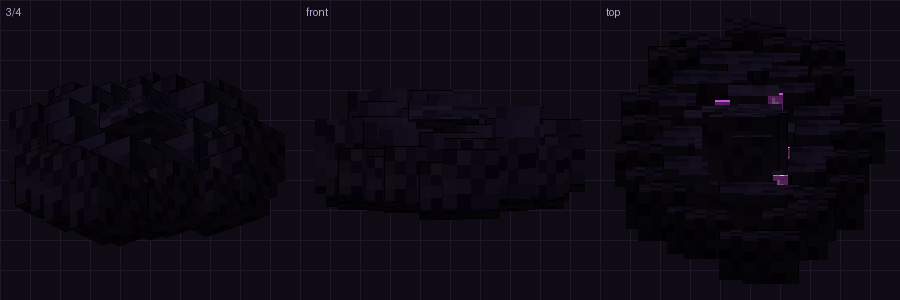
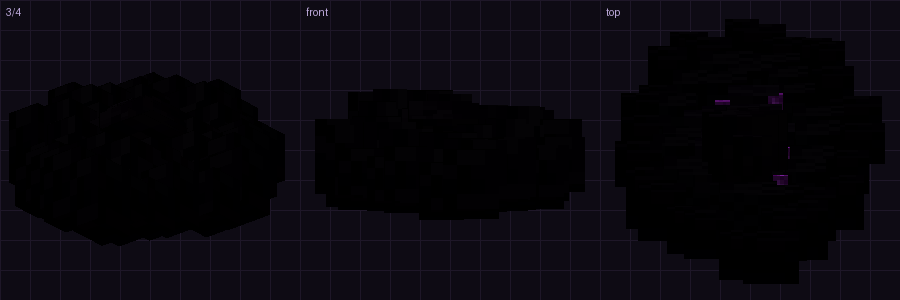
fix(dark-fog): deepen mist while preserving caster sight

diff --git a/src/main/java/com/tnc/tnc/magic/DarkFogCloudEntity.java b/src/main/java/com/tnc/tnc/magic/DarkFogCloudEntity.java
@@ -76,19 +76,19 @@ public class DarkFogCloudEntity extends SpellCloud {
      *
      * <p>为什么要它：法术 JSON 的 `release.target.cloud.client_data.particles` 由**引擎**
      * 每 tick 播放 ✓；但那条路是引擎自己读 JSON 的，我们插不进手 ✗。
-     * 这里补的是"雾在哪、有多浓"最直观的那几颗（贴地墨点 ＋ 魂火 ＋ 烟），
+     * 这里补的是"雾在哪、有多浓"最直观的贴地墨点；不再混入会把黑雾洗成灰色的 smoke，
      * 走的是**服务端撒粒子**（`ServerLevel.sendParticles`）⇒ 不用网络通道、
      * 也不依赖引擎的粒子指令封装 ✓。
      *
-     * <p>★ <b>只用已确认注册过的粒子 id</b> ✗：`minecraft:squid_ink` / `soul_fire_flame` /
-     * `smoke` 都是原版 ✓；`block_factorys_bosses` 那几个（ink_fog 等）**不是**
+     * <p>★ <b>只用已确认注册过的粒子 id</b>：`minecraft:squid_ink` 是原版 ✓；
+     * `block_factorys_bosses` 那几个（ink_fog 等）**不是**
      * ParticleType（那个 mod 注册成了 Bedrock 粒子）⇒ 引擎用它们会
      * ClassCastException 把客户端打崩 ✗（见 `tools/gen_dark_fog_spells.py` 的
      * PARTICLE SAFETY 说明 ✓）。
      */
     private static final int IDLE_PARTICLE_INTERVAL = 4;
     private static final String[] IDLE_PARTICLES = {
-            "minecraft:squid_ink", "minecraft:smoke", "minecraft:soul_fire_flame"
+            "minecraft:squid_ink"
     };
 
     /** 边界法阵（纯表现，不进存档 ✓）。 */
@@ -144,6 +144,11 @@ public class DarkFogCloudEntity extends SpellCloud {
             net.minecraft.network.syncher.SynchedEntityData.defineId(
                     DarkFogCloudEntity.class, net.minecraft.network.syncher.EntityDataSerializers.INT);
 
+    /** 同步施法者实体 id；客户端据此给自己的黑雾保留清晰视野。 */
+    private static final net.minecraft.network.syncher.EntityDataAccessor<Integer> DATA_OWNER_ID =
+            net.minecraft.network.syncher.SynchedEntityData.defineId(
+                    DarkFogCloudEntity.class, net.minecraft.network.syncher.EntityDataSerializers.INT);
+
     @Override
     protected void defineSynchedData() {
         // SpellCloud owns spell id, data index and radius trackers used during spell creation.
@@ -152,6 +157,7 @@ public class DarkFogCloudEntity extends SpellCloud {
         super.m_8097_();
         this.entityData.define(DATA_FOG_TIER, 0);
         this.entityData.define(DATA_FOG_RADIUS, 0);
+        this.entityData.define(DATA_OWNER_ID, -1);
     }
 
     /** 客户端用：这片雾是第几档（0 = 还不知道）✓。 */
@@ -162,6 +168,11 @@ public class DarkFogCloudEntity extends SpellCloud {
     /** 客户端用：这片雾的半径（格；0 = 还不知道）✓。 */
     public double syncedRadius() {
         return this.entityData.get(DATA_FOG_RADIUS) / 100.0D;
+    }
+
+    /** 客户端用：这片雾是谁释放的（-1 = 尚未同步）。 */
+    public int syncedOwnerId() {
+        return this.entityData.get(DATA_OWNER_ID);
     }
 
     /**
@@ -187,6 +198,11 @@ public class DarkFogCloudEntity extends SpellCloud {
         int stored = (int) Math.round(radius * 100.0D);
         if (this.entityData.get(DATA_FOG_RADIUS) != stored) {
             this.entityData.set(DATA_FOG_RADIUS, stored);
+        }
+        LivingEntity owner = resolveOwner();
+        int ownerId = owner == null ? -1 : owner.getId();
+        if (this.entityData.get(DATA_OWNER_ID) != ownerId) {
+            this.entityData.set(DATA_OWNER_ID, ownerId);
         }
     }
 
@@ -326,14 +342,12 @@ public class DarkFogCloudEntity extends SpellCloud {
             if (options == null) {
                 continue;                                   // 那个 id 没注册 ⇒ 跳过（不崩 ✓）
             }
-            int count = i == 0 ? 7 : (i == 1 ? 5 : 2);      // 墨点最多、魂火其次、烟最少
-            double spread = i == 2 ? 1.0D : 0.72D;          // 魂火/墨点更靠里
             // 参数顺序：粒子 / x y z / 数量 / dx dy dz（速度抖动）/ 速度
             server.sendParticles(options,
                     getX(), getY() + 0.35D, getZ(),
-                    count,
-                    radius * spread, 0.6D, radius * spread,
-                    0.02D);
+                    18,
+                    radius * 0.82D, 0.75D, radius * 0.82D,
+                    0.012D);
         }
     }
 

diff --git a/tools/prepare_dark_fog_update.py b/tools/prepare_dark_fog_update.py
@@ -1,0 +1,85 @@
+"""Overlay only the black-fog visibility update onto the installed TN-C jar."""
+import argparse
+import copy
+import hashlib
+import json
+import zipfile
+from pathlib import Path
+
+
+ENTRIES = {
+    "com/tnc/tnc/client/TNSpellClientVisuals.class",
+    "com/tnc/tnc/magic/DarkFogCloudEntity.class",
+    "com/tnc/tnc/magic/DarkFogVisibilityRules.class",
+    "assets/tnc/textures/spell_projectile/dark_fog.png",
+}
+
+
+def digest(path: Path) -> str:
+    return hashlib.sha256(path.read_bytes()).hexdigest()
+
+
+def prepare(base: Path, built: Path, output: Path, report: Path) -> None:
+    if output.resolve() in (base.resolve(), built.resolve()) or output.exists():
+        raise ValueError("output must be a new, separate jar")
+    before_hash = digest(base)
+    changed = []
+    preserved = 0
+    with zipfile.ZipFile(base) as original, zipfile.ZipFile(built) as update:
+        if len(original.namelist()) != len(set(original.namelist())):
+            raise ValueError("duplicate base entries")
+        if any(n.startswith("META-INF/") and n.upper().endswith((".SF", ".RSA", ".DSA"))
+               for n in original.namelist()):
+            raise ValueError("signed base jar requires another distribution process")
+        files = {i.filename: i for i in update.infolist() if i.filename in ENTRIES}
+        missing = ENTRIES - files.keys()
+        if missing:
+            raise ValueError(f"incomplete dark fog build: {sorted(missing)}")
+        output.parent.mkdir(parents=True, exist_ok=True)
+        with zipfile.ZipFile(output, "w") as result:
+            for info in original.infolist():
+                name = info.filename
+                if name in files:
+                    entry = files.pop(name)
+                    data = update.read(name)
+                    if data != original.read(name):
+                        changed.append(name)
+                    result.writestr(copy.copy(entry), data)
+                else:
+                    result.writestr(copy.copy(info), original.read(name))
+                    preserved += 1
+            for name, info in files.items():
+                result.writestr(copy.copy(info), update.read(name))
+                changed.append(name)
+        with zipfile.ZipFile(output) as result:
+            if result.testzip() is not None:
+                raise ValueError("output CRC verification failed")
+            for name in original.namelist():
+                if name not in ENTRIES and result.read(name) != original.read(name):
+                    raise ValueError(f"unrelated entry changed: {name}")
+        if digest(base) != before_hash:
+            raise ValueError("installed jar changed during preparation")
+    evidence = {
+        "base": str(base),
+        "base_sha256": before_hash,
+        "built": str(built),
+        "built_sha256": digest(built),
+        "output": str(output),
+        "output_sha256": digest(output),
+        "preserved_entries": preserved,
+        "changed_dark_fog_entries": changed,
+        "unrelated_entries_identical": True,
+    }
+    report.write_text(json.dumps(evidence, ensure_ascii=False, indent=2), encoding="utf-8")
+    print(json.dumps({"preserved_entries": preserved, "changed_entries": len(changed),
+                      "sha256": evidence["output_sha256"]}, indent=2))
+
+
+if __name__ == "__main__":
+    parser = argparse.ArgumentParser()
+    parser.add_argument("--base", type=Path, required=True)
+    parser.add_argument("--built", type=Path, required=True)
+    parser.add_argument("--output", type=Path, required=True)
+    parser.add_argument("--report", type=Path, required=True)
+    args = parser.parse_args()
+    prepare(args.base, args.built, args.output, args.report)

diff --git a/src/main/java/com/tnc/tnc/client/TNSpellClientVisuals.java b/src/main/java/com/tnc/tnc/client/TNSpellClientVisuals.java
@@ -251,14 +251,6 @@ public final class TNSpellClientVisuals {
     //  —— 致盲是给"在雾里"的惩罚，压暗是让你**看见**自己在雾里 ✓；两个一起才成立 ✓。
     // ------------------------------------------------------------------
 
-    /**
-     * 每一档的**最大**压暗值（0..1，乘 250 得 alpha）✓。
-     *
-     * <p>t1 25% / t2 35% / t3 50% / t4 65% / t5 80% —— 单调递增，最高档也**不到全瞎** ✗
-     * （连自己脚下都看不见会不好玩；想更黑就把最后一个数字往上加 ✓）。
-     */
-    private static final float[] FOG_DARKNESS_BY_TIER = {0.25F, 0.35F, 0.50F, 0.65F, 0.80F};
-
     /** 出圈之后再留多久才完全恢复（tick）—— 走出来的那一下不该"啪"地亮回来 ✓ */
     private static final float FOG_DARKNESS_RELEASE = 0.12F;
 
@@ -276,7 +268,8 @@ public final class TNSpellClientVisuals {
                     minecraft.player.getBoundingBox().inflate(32.0D))) {
                 double radius = fog.syncedRadius();
                 int tier = fog.syncedTier();
-                if (radius <= 0.5D || tier <= 0 || tier > FOG_DARKNESS_BY_TIER.length) {
+                if (radius <= 0.5D || tier <= 0
+                        || tier > com.tnc.tnc.magic.DarkFogVisibilityRules.tierCount()) {
                     continue;                       // 还没同步下来 / 不是我们的雾 ⇒ 跳过 ✓
                 }
                 double distance = Math.sqrt(
@@ -288,7 +281,9 @@ public final class TNSpellClientVisuals {
                 // 圈心最黑、贴边最浅；再乘一个"高度也影响"的小修正（站高处略淡 ✓）
                 double depth = 1.0D - (distance / radius);
                 double vertical = 1.0D - Math.min(1.0D, Math.abs(fog.getY() - py) / 8.0D);
-                float value = (float) (FOG_DARKNESS_BY_TIER[tier - 1] * depth * (0.55D + 0.45D * vertical));
+                boolean casterOwned = fog.syncedOwnerId() == minecraft.player.getId();
+                float maximum = com.tnc.tnc.magic.DarkFogVisibilityRules.maximumDarkness(tier, casterOwned);
+                float value = (float) (maximum * depth * (0.55D + 0.45D * vertical));
                 if (value > target) {
                     target = value;
                 }
@@ -477,9 +472,7 @@ public final class TNSpellClientVisuals {
                 double oy = (level.random.nextDouble() - 0.5D) * h;
                 double oz = (level.random.nextDouble() - 0.5D) * 0.9D;
                 level.addParticle(
-                        (i % 3 == 0)
-                                ? net.minecraft.core.particles.ParticleTypes.SMOKE
-                                : net.minecraft.core.particles.ParticleTypes.SQUID_INK,
+                        net.minecraft.core.particles.ParticleTypes.SQUID_INK,
                         ex + ox, ey + oy, ez + oz,
                         0.0D, 0.012D, 0.0D);
             }

diff --git a/tools/gen_dark_fog_model.py b/tools/gen_dark_fog_model.py
@@ -185,33 +185,29 @@ def build_texture():
     rng = random.Random(SEED + 7)
 
     shades = {
-        # ★ darkened 2026-10-09 (author: "黑雾感觉不够黑啊" / "the fog is not dark enough").
-        # The dome is the largest solid mass of the field, so this atlas is the strongest
-        # darkness knob available. It used to sit at brightness 20..41 out of 255; it is now
-        # 7..21. Why it matters: SpellCloudRenderer passes CustomModels.render a light value
-        # taken from the ENTITY (`entity.getId()` / eye height), not from the world lightmap,
-        # so the dome is drawn at a fairly bright light no matter where it stands -- a
-        # mid-grey atlas therefore reads as exactly that, mid grey. Keep these near-black.
-        "fog_base": (14, 10, 22),
-        "fog_dark": (8, 6, 13),
-        "fog_mid": (20, 14, 30),
-        "fog_edge": (11, 8, 17),
-        "fog_top": (16, 12, 25),
-        "ember": (196, 74, 214),        # magenta ember, deliberately loud
+        # SpellCloudRenderer can make a merely dark texture read grey in daylight. Keep the
+        # body within 0..6 RGB so lighting cannot wash it out; sparse violet embers preserve
+        # the boundary and direction cues for the caster.
+        "fog_base": (2, 1, 3),
+        "fog_dark": (0, 0, 0),
+        "fog_mid": (4, 2, 6),
+        "fog_edge": (1, 0, 2),
+        "fog_top": (3, 1, 4),
+        "ember": (74, 12, 92),
     }
 
     for mat, (mx, my) in PATCHES.items():
         base = shades[mat]
         for y in range(my, my + PATCH):
             for x in range(mx, mx + PATCH):
-                n = rng.randint(-6, 6)
+                n = rng.randint(-8, 8) if mat == "ember" else rng.randint(-2, 2)
                 px[x, y] = (max(0, base[0] + n), max(0, base[1] + n),
                             max(0, base[2] + n), 255)
         # give embers a hot core so the 4x4 patch does not read as a flat square
         if mat == "ember":
-            px[mx + 1, my + 1] = (255, 190, 255, 255)
-            px[mx + 2, my + 1] = (255, 160, 240, 255)
-            px[mx + 1, my + 2] = (255, 160, 240, 255)
+            px[mx + 1, my + 1] = (142, 48, 170, 255)
+            px[mx + 2, my + 1] = (116, 32, 146, 255)
+            px[mx + 1, my + 2] = (116, 32, 146, 255)
 
     # unused area: leave transparent, so a mis-UVed face shows up as a hole
     return tex

diff --git a/src/test/java/com/tnc/tnc/magic/DarkFogVisibilityRulesTest.java b/src/test/java/com/tnc/tnc/magic/DarkFogVisibilityRulesTest.java
@@ -1,0 +1,29 @@
+package com.tnc.tnc.magic;
+
+import org.junit.jupiter.api.Test;
+
+import static org.junit.jupiter.api.Assertions.assertEquals;
+import static org.junit.jupiter.api.Assertions.assertTrue;
+
+class DarkFogVisibilityRulesTest {
+    @Test
+    void enemyFogBecomesNearlyBlackByTierFive() {
+        float previous = 0.0F;
+        for (int tier = 1; tier <= DarkFogVisibilityRules.tierCount(); tier++) {
+            float darkness = DarkFogVisibilityRules.maximumDarkness(tier, false);
+            assertTrue(darkness > previous, "higher fog tiers must be darker");
+            previous = darkness;
+        }
+        assertTrue(previous >= 0.95F, "tier five should be nearly pure black");
+    }
+
+    @Test
+    void casterCanStillSeeInsideOwnFog() {
+        for (int tier = 1; tier <= DarkFogVisibilityRules.tierCount(); tier++) {
+            assertTrue(DarkFogVisibilityRules.maximumDarkness(tier, true) <= 0.18F,
+                    "caster overlay must preserve target visibility");
+        }
+        assertEquals(0.0F, DarkFogVisibilityRules.maximumDarkness(0, false));
+        assertEquals(0.0F, DarkFogVisibilityRules.maximumDarkness(6, true));
+    }
+}

diff --git a/src/main/java/com/tnc/tnc/magic/DarkFogVisibilityRules.java b/src/main/java/com/tnc/tnc/magic/DarkFogVisibilityRules.java
@@ -1,0 +1,22 @@
+package com.tnc.tnc.magic;
+
+/** Pure visibility rules shared by the black-fog client effect and offline tests. */
+public final class DarkFogVisibilityRules {
+    private static final float[] DARKNESS_BY_TIER = {0.60F, 0.72F, 0.82F, 0.90F, 0.97F};
+    private static final float CASTER_SCALE = 0.18F;
+
+    private DarkFogVisibilityRules() {
+    }
+
+    public static int tierCount() {
+        return DARKNESS_BY_TIER.length;
+    }
+
+    public static float maximumDarkness(int tier, boolean casterOwned) {
+        if (tier < 1 || tier > DARKNESS_BY_TIER.length) {
+            return 0.0F;
+        }
+        float darkness = DARKNESS_BY_TIER[tier - 1];
+        return casterOwned ? darkness * CASTER_SCALE : darkness;
+    }
+}
